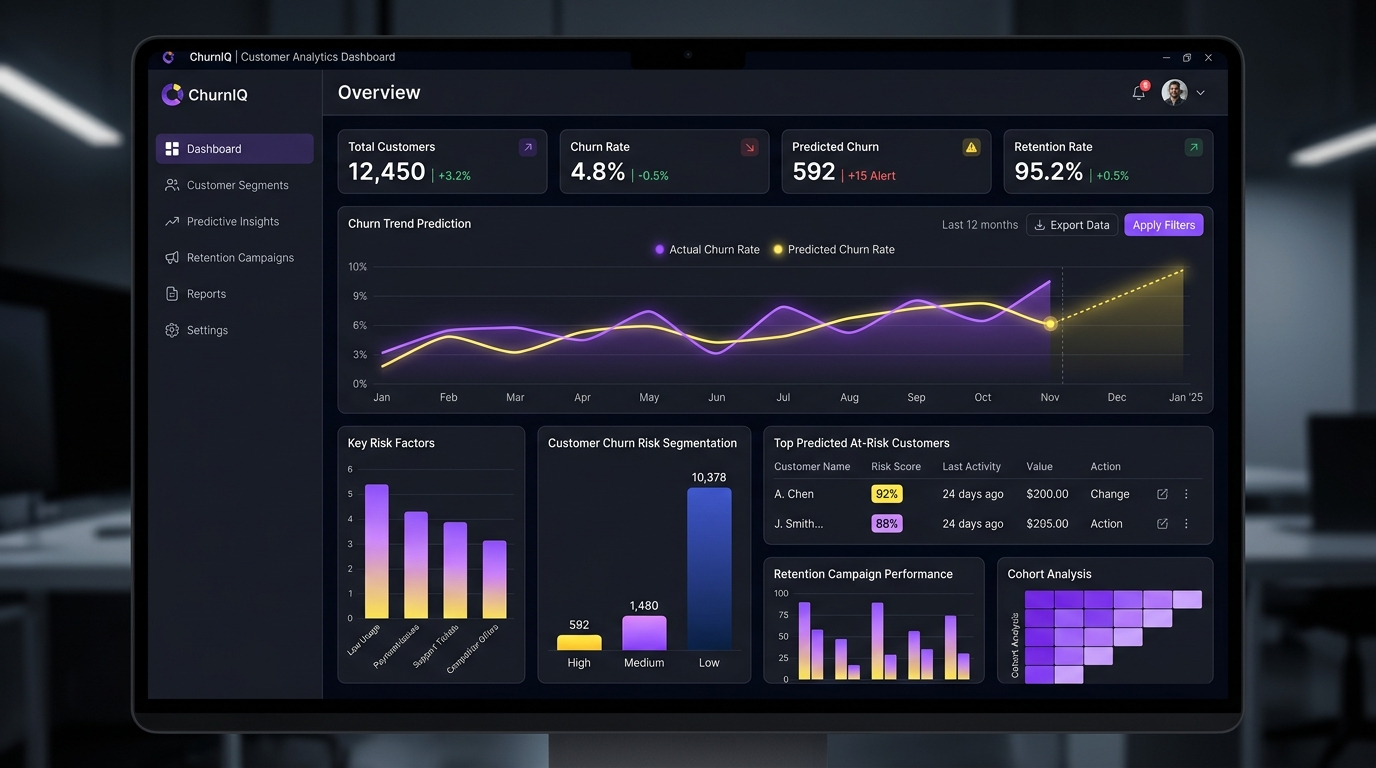
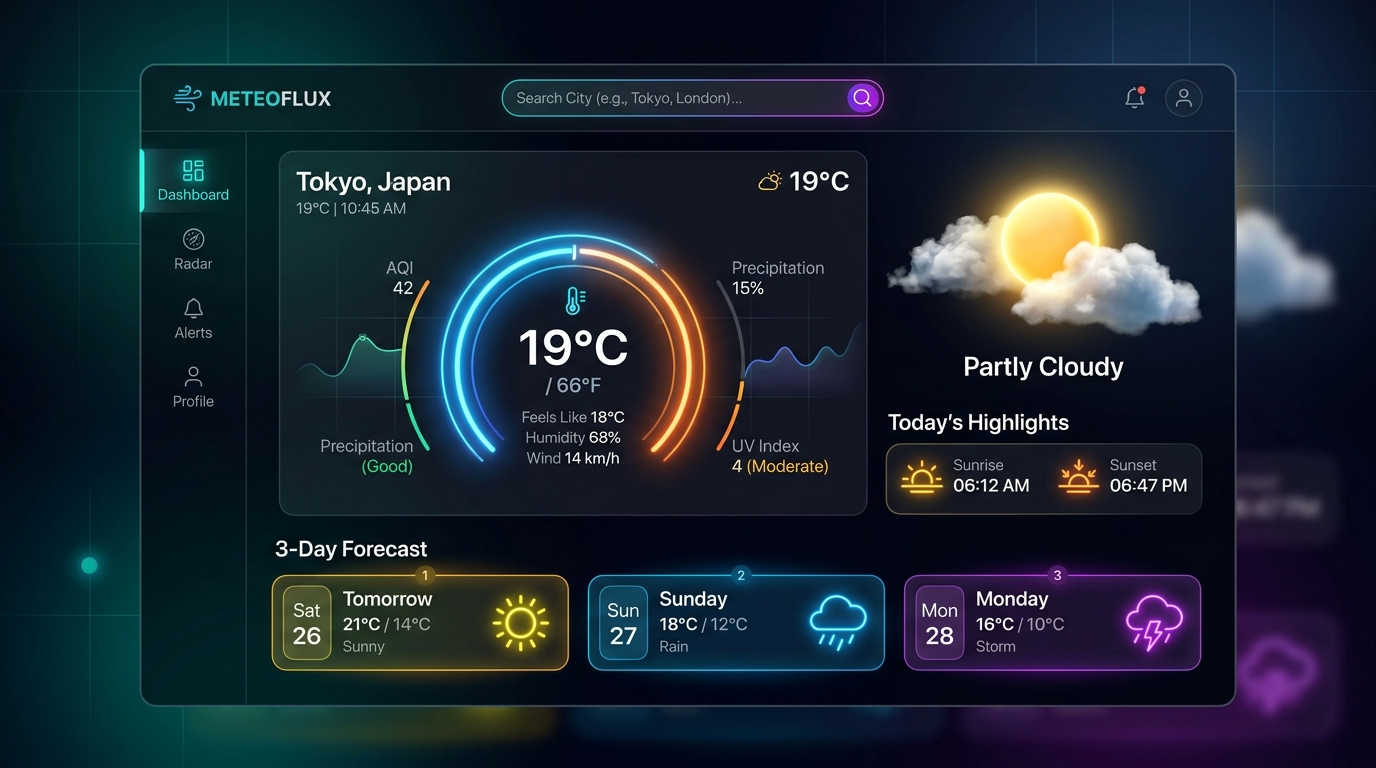
Replace project 01 with Weather Hub Application (Vercel deployment)

diff --git a/script.js b/script.js
@@ -79,30 +79,31 @@ document.addEventListener('DOMContentLoaded', () => {
 
   const projectData = {
     '1': {
-      title: 'Exploratory Data Analysis Portal',
-      category: 'Python • Pandas • SQL Analytics',
-      metric: 'Data Insights & Cleaning Engine',
-      summary: 'Engineered a Python exploratory data analysis script using Pandas & NumPy to process multi-feature datasets, clean missing records, and plot trend correlations.',
-      problem: 'Raw student performance and survey data required extensive cleaning and summary stats prior to analysis.',
+      title: 'Weather Hub Application',
+      category: 'HTML5 • CSS3 • JavaScript • Weather API',
+      metric: 'Live - Vercel Deployment',
+      liveUrl: 'https://weather-app-lemon-nine-30.vercel.app/',
+      summary: 'Developed a responsive weather application using HTML, CSS, and JavaScript, with real-time weather data fetched through an external weather API.',
+      problem: 'Users need instant, location-based climate forecasts, sunrise/sunset times, humidity tracking, and 3-day weather predictions with instant city search.',
       approach: [
-        'Cleaned null values and outlier records in Python using Pandas dataframes.',
-        'Wrote SQL aggregations to calculate statistical averages across student cohorts.',
-        'Generated visual summary plots to highlight key academic performance indicators.'
+        'Fetched real-time weather data asynchronously using an external Weather REST API.',
+        'Structured clean, responsive UI layouts with HTML5, CSS3, and glassmorphism styling for all devices.',
+        'Implemented interactive search with autocomplete suggestions, temperature metrics display, and error handling for invalid city inputs.'
       ],
-      codeSnippet: `# Python Pandas Data Cleaning & Summary Script
-import pandas as pd
-import numpy as np
-
-def analyze_student_data(file_path):
-    df = pd.read_csv(file_path)
-    df.dropna(subset=['score', 'attendance'], inplace=True)
-    
-    summary = df.groupby('department').agg(
-        avg_score=('score', 'mean'),
-        avg_attendance=('attendance', 'mean'),
-        total_students=('student_id', 'count')
-    ).reset_index()
-    return summary`
+      codeSnippet: `// Asynchronous Real-Time Weather Data Fetching Function
+async function fetchWeatherData(city) {
+  const apiKey = 'YOUR_WEATHER_API_KEY';
+  const url = \`https://api.openweathermap.org/data/2.5/weather?q=\${city}&units=metric&appid=\${apiKey}\`;
+  
+  try {
+    const response = await fetch(url);
+    if (!response.ok) throw new Error('City not found');
+    const data = await response.json();
+    updateWeatherUI(data);
+  } catch (error) {
+    showError('Please check city spelling and try again.');
+  }
+}`
     },
     '2': {
       title: 'Megatronix Tech Fest Event Portal',
@@ -176,19 +177,20 @@ export default function StudentFilter({ students }) {
       modalBody.innerHTML = `
         <div class="badge-pill yellow-fill" style="margin-bottom: 12px;">${data.category}</div>
         <h2 style="font-size: 2rem; margin-bottom: 12px; color: var(--text-main);">${data.title}</h2>
-        <div style="font-family: var(--font-mono); color: var(--accent-yellow); font-weight: 700; margin-bottom: 24px;">IMPACT: ${data.metric}</div>
+        <div style="font-family: var(--font-mono); color: var(--accent-yellow); font-weight: 700; margin-bottom: 16px;">IMPACT: ${data.metric}</div>
+        ${data.liveUrl ? `<div style="margin-bottom: 24px;"><a href="${data.liveUrl}" target="_blank" class="btn btn-yellow btn-sm"><i class="fa-solid fa-arrow-up-right-from-square"></i> VISIT LIVE APPLICATION</a></div>` : ''}
         
         <p style="color: var(--text-muted); line-height: 1.7; margin-bottom: 24px;">${data.summary}</p>
         
-        <h4 style="font-size: 1.1rem; color: var(--text-main); margin-bottom: 8px;">Business Problem</h4>
+        <h4 style="font-size: 1.1rem; color: var(--text-main); margin-bottom: 8px;">Business Problem / Objective</h4>
         <p style="color: var(--text-muted); line-height: 1.6; margin-bottom: 24px;">${data.problem}</p>
         
-        <h4 style="font-size: 1.1rem; color: var(--text-main); margin-bottom: 8px;">Key Analytical Approach</h4>
+        <h4 style="font-size: 1.1rem; color: var(--text-main); margin-bottom: 8px;">Key Technical Approach</h4>
         <ul style="color: var(--text-muted); padding-left: 20px; line-height: 1.7; margin-bottom: 24px;">
           ${data.approach.map(item => `<li>${item}</li>`).join('')}
         </ul>
 
-        <h4 style="font-size: 1.1rem; color: var(--text-main); margin-bottom: 8px;">Analytical Code Snippet</h4>
+        <h4 style="font-size: 1.1rem; color: var(--text-main); margin-bottom: 8px;">Implementation Code Snippet</h4>
         <pre class="code-block"><code>${escapeHtml(data.codeSnippet)}</code></pre>
       `;
 

diff --git a/index.html b/index.html
@@ -510,19 +510,26 @@
           <div class="card-inner">
             <div class="card-num-badge">01</div>
             <div class="card-image-container">
-              <img src="assets/case-study-1.jpg" alt="Personal Portfolio Website" class="project-img">
+              <img src="assets/case-study-1.jpg" alt="Weather Hub Application" class="project-img">
             </div>
             <div class="card-content">
               <div class="project-tags">— HTML • CSS • JAVASCRIPT</div>
-              <h3 class="project-title">Personal Portfolio Website</h3>
+              <h3 class="project-title">Weather Hub Application</h3>
               <p class="project-desc">
-                Developed a responsive personal portfolio to showcase technical skills, projects, achievements, and experience with smooth navigation.
+                Developed a responsive weather application using HTML, CSS, and JavaScript, with real-time weather data fetched through an external weather API.
               </p>
               <div class="card-footer">
-                <span class="impact-metric">LIVE - GITHUB</span>
-                <button class="icon-btn-arrow open-modal-btn" data-project="1">
-                  <i class="fa-solid fa-arrow-up-right-from-square"></i>
-                </button>
+                <a href="https://weather-app-lemon-nine-30.vercel.app/" target="_blank" style="text-decoration: none;">
+                  <span class="impact-metric"><i class="fa-solid fa-bolt"></i> LIVE - VERCEL</span>
+                </a>
+                <div style="display: flex; gap: 8px;">
+                  <a href="https://weather-app-lemon-nine-30.vercel.app/" target="_blank" class="icon-btn-arrow" title="Visit Live Application">
+                    <i class="fa-solid fa-arrow-up-right-from-square"></i>
+                  </a>
+                  <button class="icon-btn-arrow open-modal-btn" data-project="1" title="View Project Case Study">
+                    <i class="fa-solid fa-circle-info"></i>
+                  </button>
+                </div>
               </div>
             </div>
           </div>
